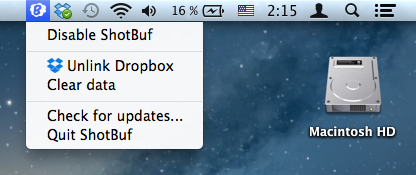
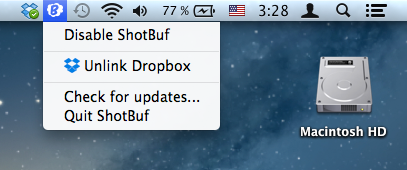
site: os x manual menu screenshot and description

diff --git a/osx/Distribution/Site/help/index.html b/osx/Distribution/Site/help/index.html
@@ -66,7 +66,7 @@
 		    			<p><img src="osx-dropbox-allow.png"/></p></li>
 		    			<li><p>When blue icon added to status bar you may continue using ShotBuf on your mobile devices and your  Mac.</p>
 		    			<p><img src="osx-ran-already.png"/></p></li>
-		    			<li><p>ShotBuf drop-down menu exposes features you may use on your Mac: disable or enable ShotBuf to listen for <strong>Command-C</strong> shortcut and clipboard pastes, clear data stored into ShotBuf App folder, link to different Dropbox account.</p>
+		    			<li><p>ShotBuf drop-down menu exposes features you may use on your Mac: disable or enable ShotBuf to listen for <strong>Command-C</strong> shortcut and clipboard pastes, link to different Dropbox account.</p>
 		    			<p><img src="osx-menu.png"/></p></li>
 	    			</ol>
 	    			
